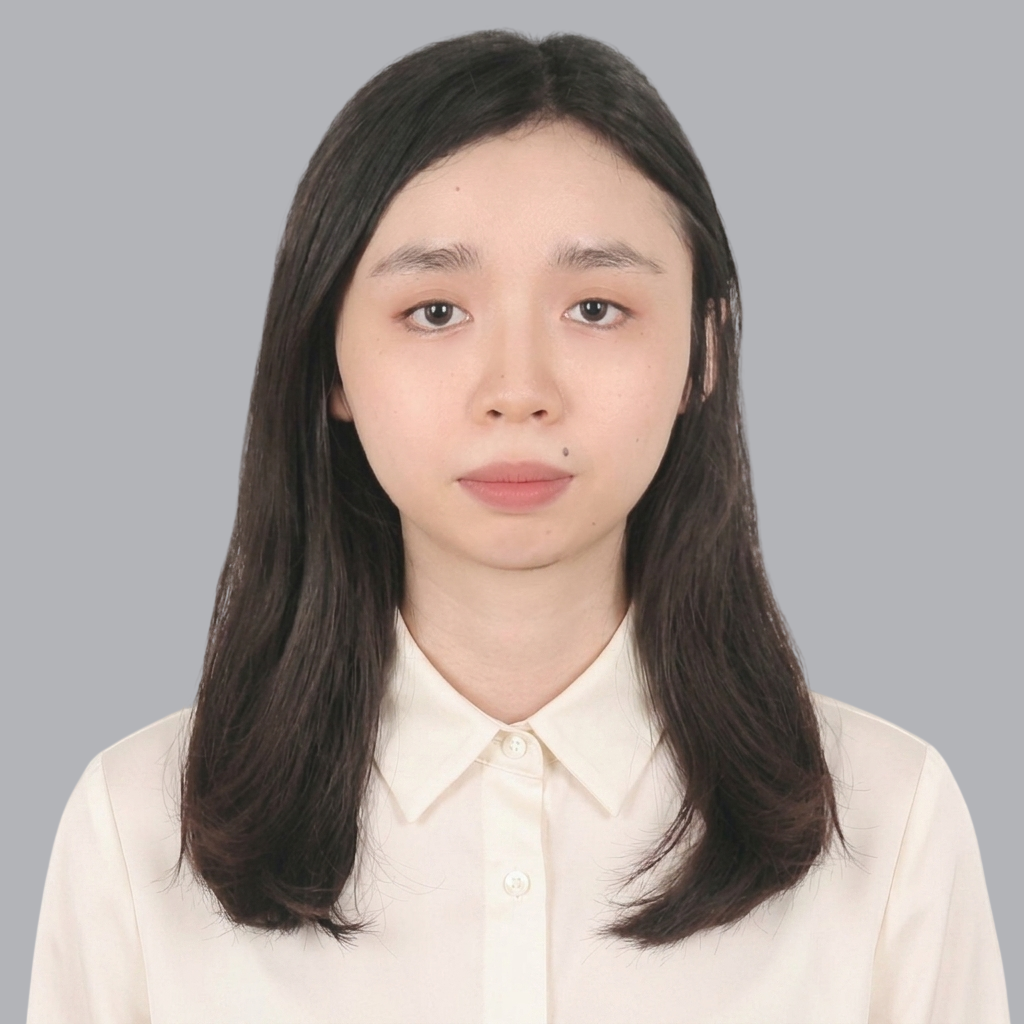
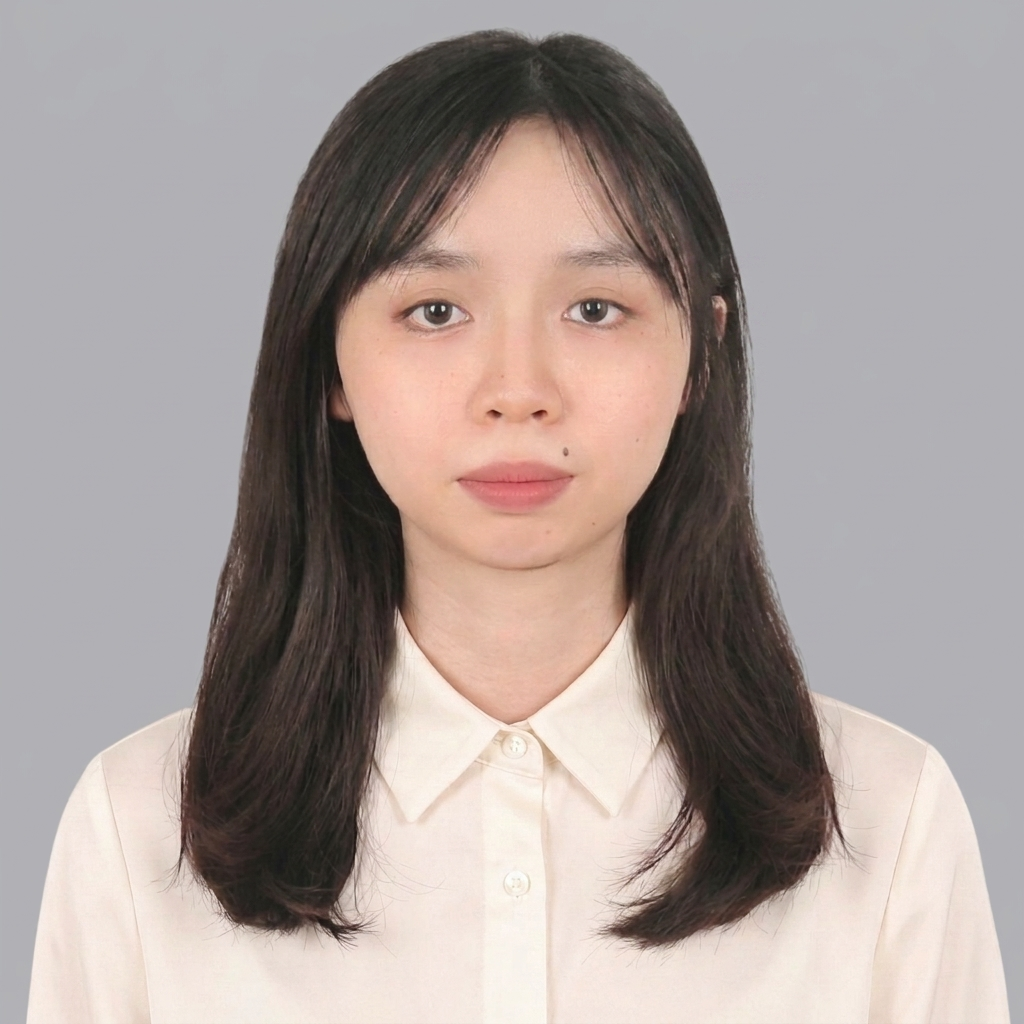
Fix contact map, footer service links, social/team data, and stat colors
- Update Lwin Kyaw Moe's department to System
- Point the contact page map at NEX4's actual location and drop the fabricated review rating
- Sync footer Solutions & Services links with the navbar's 6 categories
- Update X (Twitter) link to x.com/nex4ict
- Make About Us stat numbers a consistent color

diff --git a/src/pages/ContactUs.tsx b/src/pages/ContactUs.tsx
@@ -318,7 +318,7 @@ export const ContactUs = () => {
             <div className="relative h-[500px] bg-gradient-to-br from-blue-100 to-cyan-100">
               {/* Google Maps Embed */}
               <iframe
-                src="https://www.google.com/maps/embed?pb=!1m18!1m12!1m3!1d3819.7837482857!2d96.12472631486537!3d16.79899998843!2m3!1f0!2f0!3f0!3m2!1i1024!2i768!4f13.1!3m3!1m2!1s0x30c1eb3b3b3b3b3b%3A0x3b3b3b3b3b3b3b3b!2sMICT%20Park!5e0!3m2!1sen!2smm!4v1609459200000!5m2!1sen!2smm"
+                src="https://www.google.com/maps/embed?pb=!1m18!1m12!1m3!1d3819.7837482857!2d96.1285368!3d16.8505859!2m3!1f0!2f0!3f0!3m2!1i1024!2i768!4f13.1!3m3!1m2!1s0x30c194ec7f9c5b3b%3A0x3c3470c11403d6ee!2sNEX4!5e0!3m2!1sen!2smm!4v1609459200000!5m2!1sen!2smm"
                 width="100%"
                 height="100%"
                 style={{ border: 0 }}
@@ -336,41 +336,17 @@ export const ContactUs = () => {
                   </div>
                   <div>
                     <h3 className="font-bold text-gray-800 mb-1">NEX4</h3>
-                    <p className="text-sm text-gray-600 mb-2">Building 18, MICT Park, Myanmar</p>
-                    <div className="flex items-center gap-1">
-                      <span className="text-yellow-400">⭐</span>
-                      <span className="text-sm font-semibold">5.0</span>
-                      <span className="text-sm text-gray-500">(5 reviews)</span>
-                    </div>
+                    <p className="text-sm text-gray-600 mb-3">{CONTACT_INFO.address}</p>
                     <a
-                      href="https://maps.google.com/?q=MICT+Park+Yangon"
+                      href="https://maps.app.goo.gl/1f48qhVGGBKS8nzk9"
                       target="_blank"
                       rel="noopener noreferrer"
-                      className="text-[#00A9E0] text-sm hover:underline mt-2 inline-block"
+                      className="text-[#00A9E0] text-sm font-medium hover:underline inline-flex items-center gap-1"
                     >
-                      View larger map
+                      Get Directions →
                     </a>
                   </div>
                 </div>
-              </div>
-
-              {/* Location Marker Badge */}
-              <div className="absolute top-1/2 left-1/2 transform -translate-x-1/2 -translate-y-full">
-                <motion.div
-                  initial={{ scale: 0 }}
-                  whileInView={{ scale: 1 }}
-                  viewport={{ once: true }}
-                  transition={{ duration: 0.5, delay: 0.5 }}
-                  className="flex flex-col items-center"
-                >
-                  <div className="w-16 h-16 rounded-full bg-[#00A9E0] flex items-center justify-center shadow-lg">
-                    <MapPin className="text-white" size={32} />
-                  </div>
-                  <div className="bg-white px-4 py-2 rounded-lg shadow-md mt-2">
-                    <p className="text-sm font-semibold text-gray-800">NEX4 Office Location</p>
-                    <p className="text-xs text-gray-600">MICT Park, Yangon</p>
-                  </div>
-                </motion.div>
               </div>
             </div>
           </motion.div>

diff --git a/src/components/common/Footer.tsx b/src/components/common/Footer.tsx
@@ -1,8 +1,13 @@
 import { Link } from 'react-router-dom';
 import { motion } from 'framer-motion';
-import { Facebook, Linkedin, Youtube, MapPin, Phone, Mail, Clock, Shield, Building2, Cloud, Globe, Headphones } from 'lucide-react';
+import { Facebook, Linkedin, Youtube, MapPin, Phone, Mail, Clock, Shield, Building2, Cloud, Globe, Laptop, Headphones } from 'lucide-react';
 import { FaXTwitter } from 'react-icons/fa6';
-import { CONTACT_INFO, SOCIAL_LINKS } from '@/lib/constants';
+import { CONTACT_INFO, SOCIAL_LINKS, NAV_LINKS } from '@/lib/constants';
+
+const SERVICE_ICONS = [Globe, Shield, Building2, Cloud, Laptop, Headphones];
+
+const solutionsCategories =
+  NAV_LINKS.find((link) => link.href === '/solutions-services')?.dropdown ?? [];
 
 export const Footer = () => {
   return (
@@ -100,28 +105,22 @@ export const Footer = () => {
             viewport={{ once: true }}
             transition={{ duration: 0.5, delay: 0.2 }}
           >
-            <h6 className="text-lg font-semibold mb-4">Our Services</h6>
+            <h6 className="text-lg font-semibold mb-4">Solutions & Services</h6>
             <ul className="space-y-2">
-              <li className="text-gray-300 flex items-center gap-2 text-sm">
-                <Shield size={16} className="text-[#00A9E0] flex-shrink-0" />
-                Cybersecurity
-              </li>
-              <li className="text-gray-300 flex items-center gap-2 text-sm">
-                <Building2 size={16} className="text-[#00A9E0] flex-shrink-0" />
-                Infrastructure
-              </li>
-              <li className="text-gray-300 flex items-center gap-2 text-sm">
-                <Cloud size={16} className="text-[#00A9E0] flex-shrink-0" />
-                Cloud Services
-              </li>
-              <li className="text-gray-300 flex items-center gap-2 text-sm">
-                <Globe size={16} className="text-[#00A9E0] flex-shrink-0" />
-                Network Solutions
-              </li>
-              <li className="text-gray-300 flex items-center gap-2 text-sm">
-                <Headphones size={16} className="text-[#00A9E0] flex-shrink-0" />
-                24/7 Support
-              </li>
+              {solutionsCategories.map((category, index) => {
+                const Icon = SERVICE_ICONS[index % SERVICE_ICONS.length];
+                return (
+                  <li key={category.category}>
+                    <Link
+                      to={category.link ?? '/solutions-services'}
+                      className="text-gray-300 hover:text-[#00A9E0] transition-colors flex items-center gap-2 text-sm"
+                    >
+                      <Icon size={16} className="text-[#00A9E0] flex-shrink-0" />
+                      {category.category}
+                    </Link>
+                  </li>
+                );
+              })}
             </ul>
           </motion.div>
 

diff --git a/src/pages/AboutUs.tsx b/src/pages/AboutUs.tsx
@@ -45,7 +45,7 @@ export const AboutUs = () => {
               {/* Stats */}
               <div className="grid grid-cols-3 gap-6 mt-8">
                 <div className="text-center">
-                  <div className="text-3xl md:text-4xl font-bold text-gray-800">12+</div>
+                  <div className="text-3xl md:text-4xl font-bold text-[#00A9E0]">12+</div>
                   <div className="text-sm text-gray-600 mt-1">Years Experience</div>
                 </div>
                 <div className="text-center">
@@ -53,7 +53,7 @@ export const AboutUs = () => {
                   <div className="text-sm text-gray-600 mt-1">Projects Delivered</div>
                 </div>
                 <div className="text-center">
-                  <div className="text-3xl md:text-4xl font-bold text-gray-800">300+</div>
+                  <div className="text-3xl md:text-4xl font-bold text-[#00A9E0]">300+</div>
                   <div className="text-sm text-gray-600 mt-1">Clients</div>
                 </div>
               </div>

diff --git a/src/lib/constants.ts b/src/lib/constants.ts
@@ -8,7 +8,7 @@ export const CONTACT_INFO = {
 // Company social media links (from current website)
 export const SOCIAL_LINKS = {
   facebook: 'https://www.facebook.com/nex4ict/',
-  twitter: 'https://twitter.com/nex4ict?s=09',
+  twitter: 'https://x.com/nex4ict',
   linkedin: 'https://www.linkedin.com/company/nex4ict',
   youtube: 'https://www.youtube.com/channel/UCwcOIHDbgoaKzGM3LG-ACRg',
 };

diff --git a/src/data/employees.ts b/src/data/employees.ts
@@ -22,7 +22,7 @@ export const employeeData: Employee[] = [
   {
     id: 'lwin-kyaw-moe',
     name: 'Lwin Kyaw Moe',
-    position: 'Support',
+    position: 'System',
     image: '/images/team/employees/lwin_kyaw_moe.png',
   },
   {
